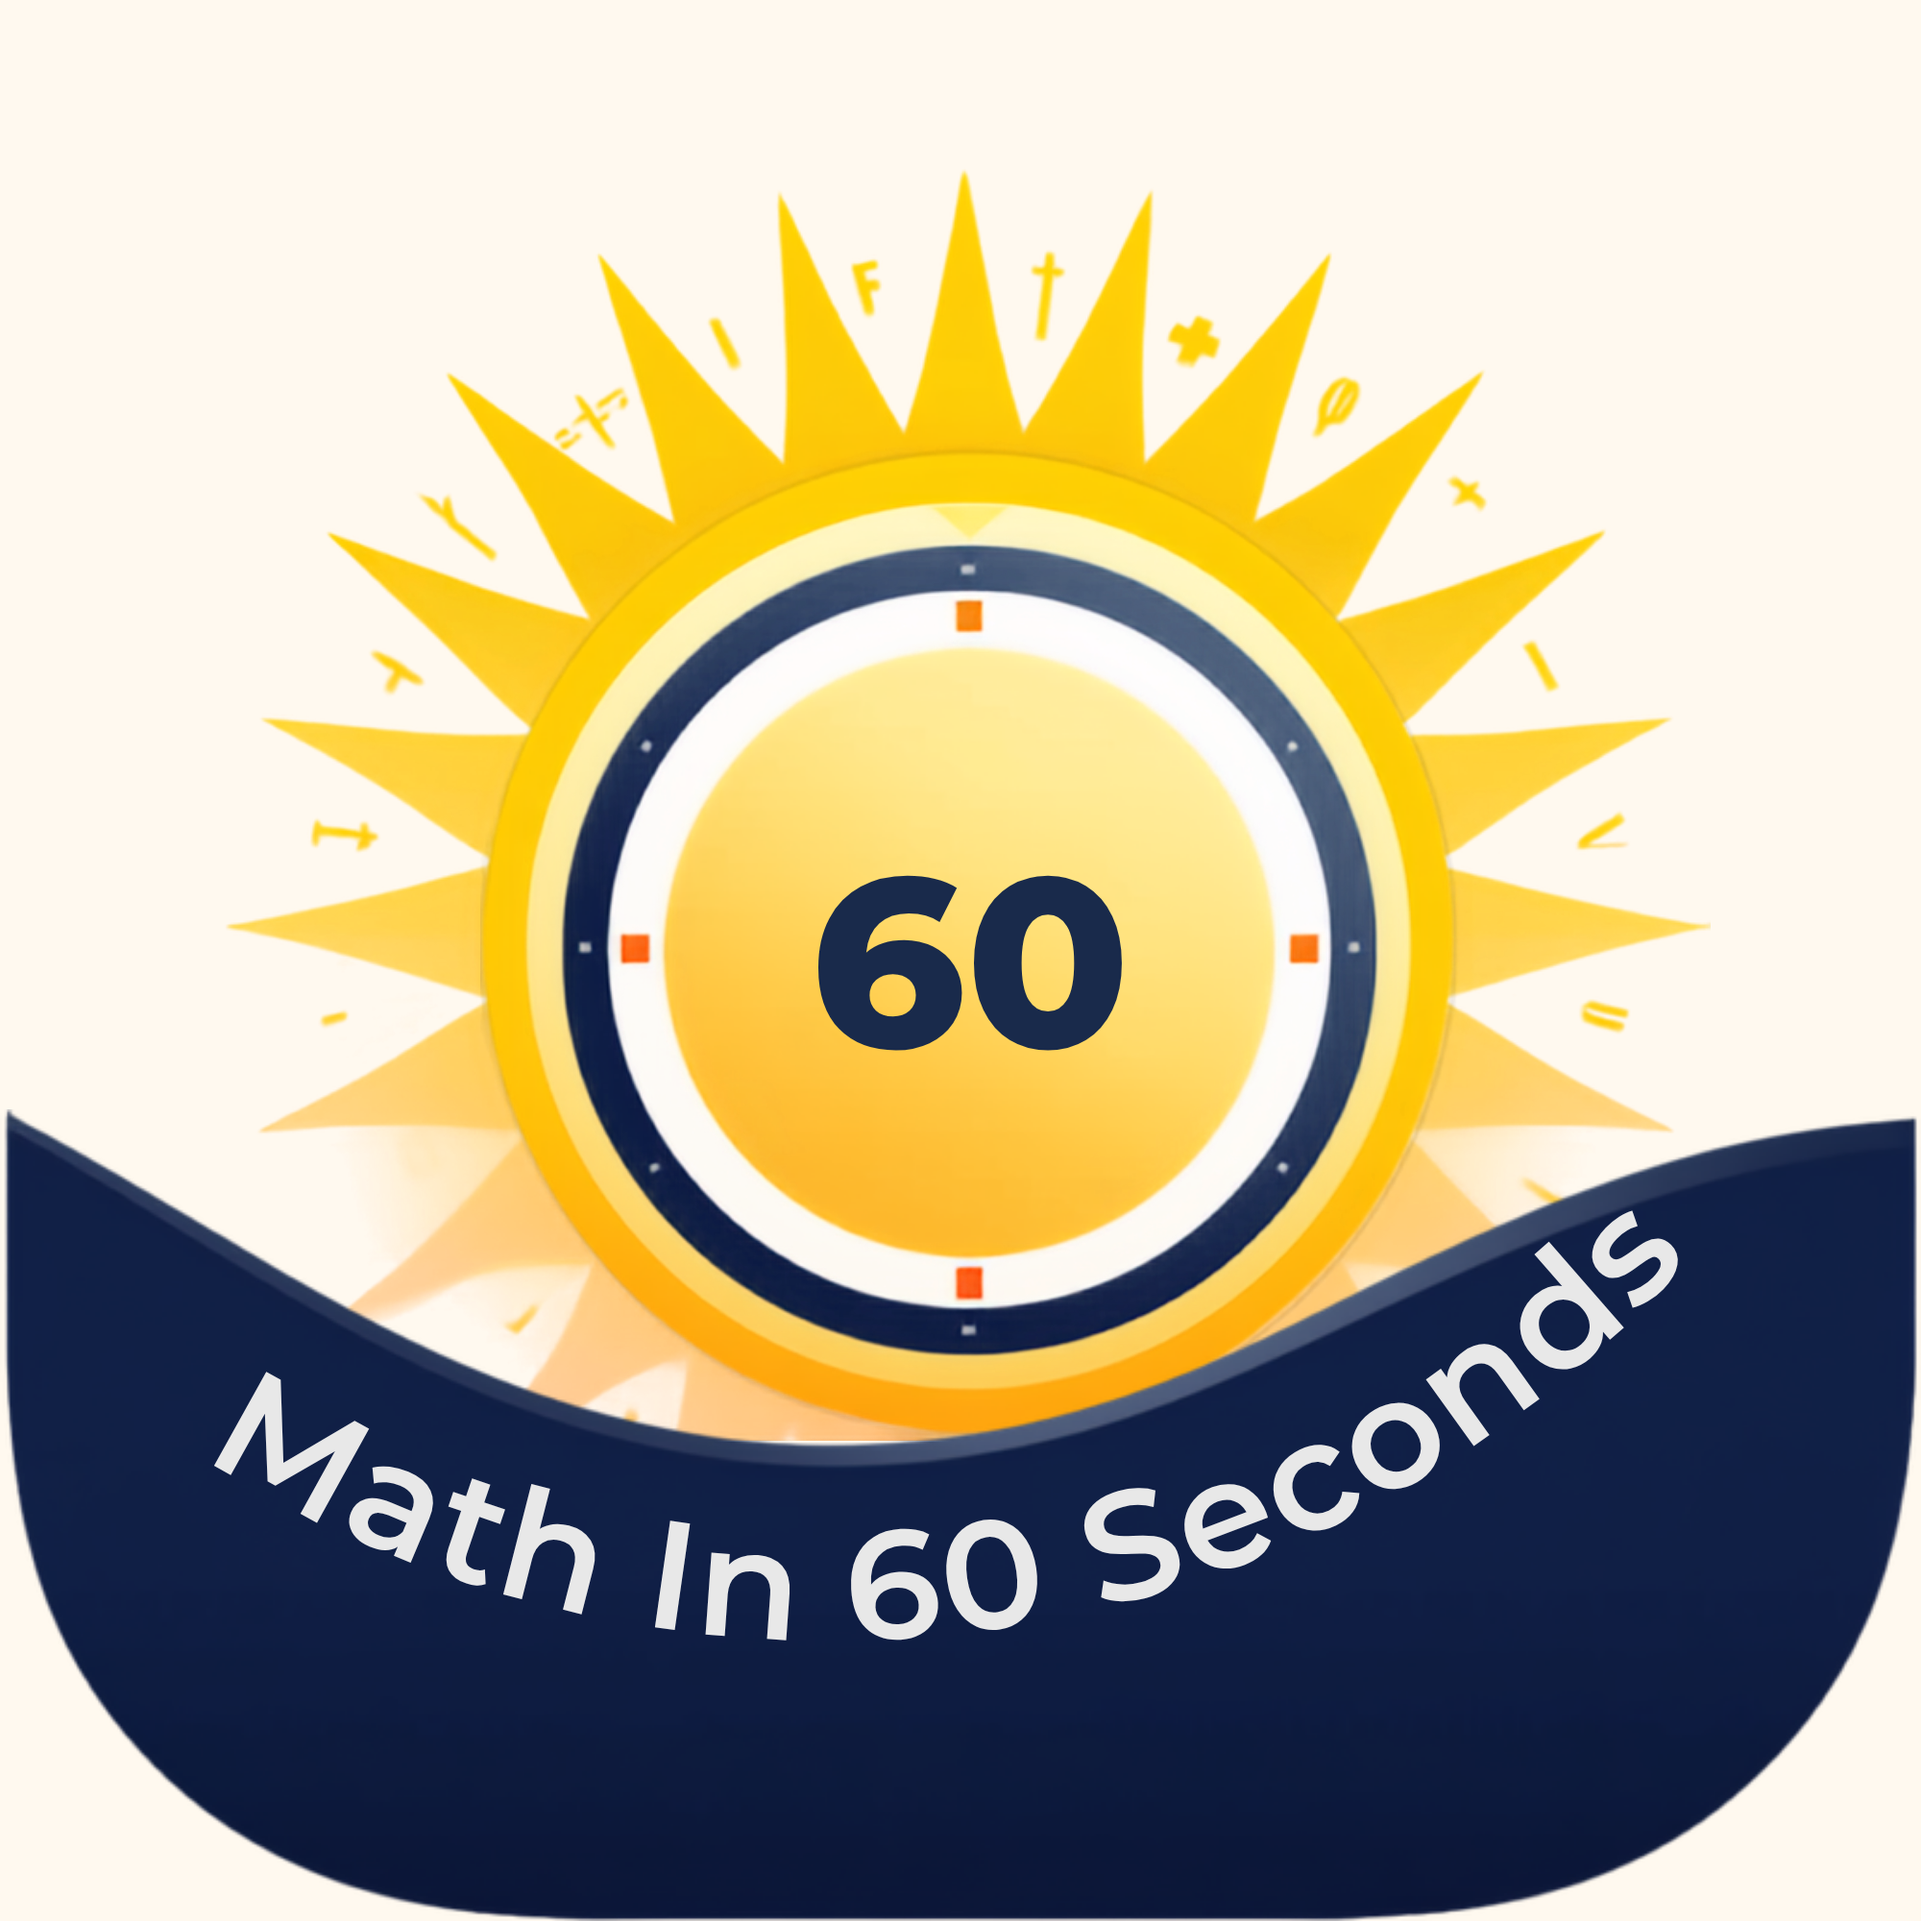
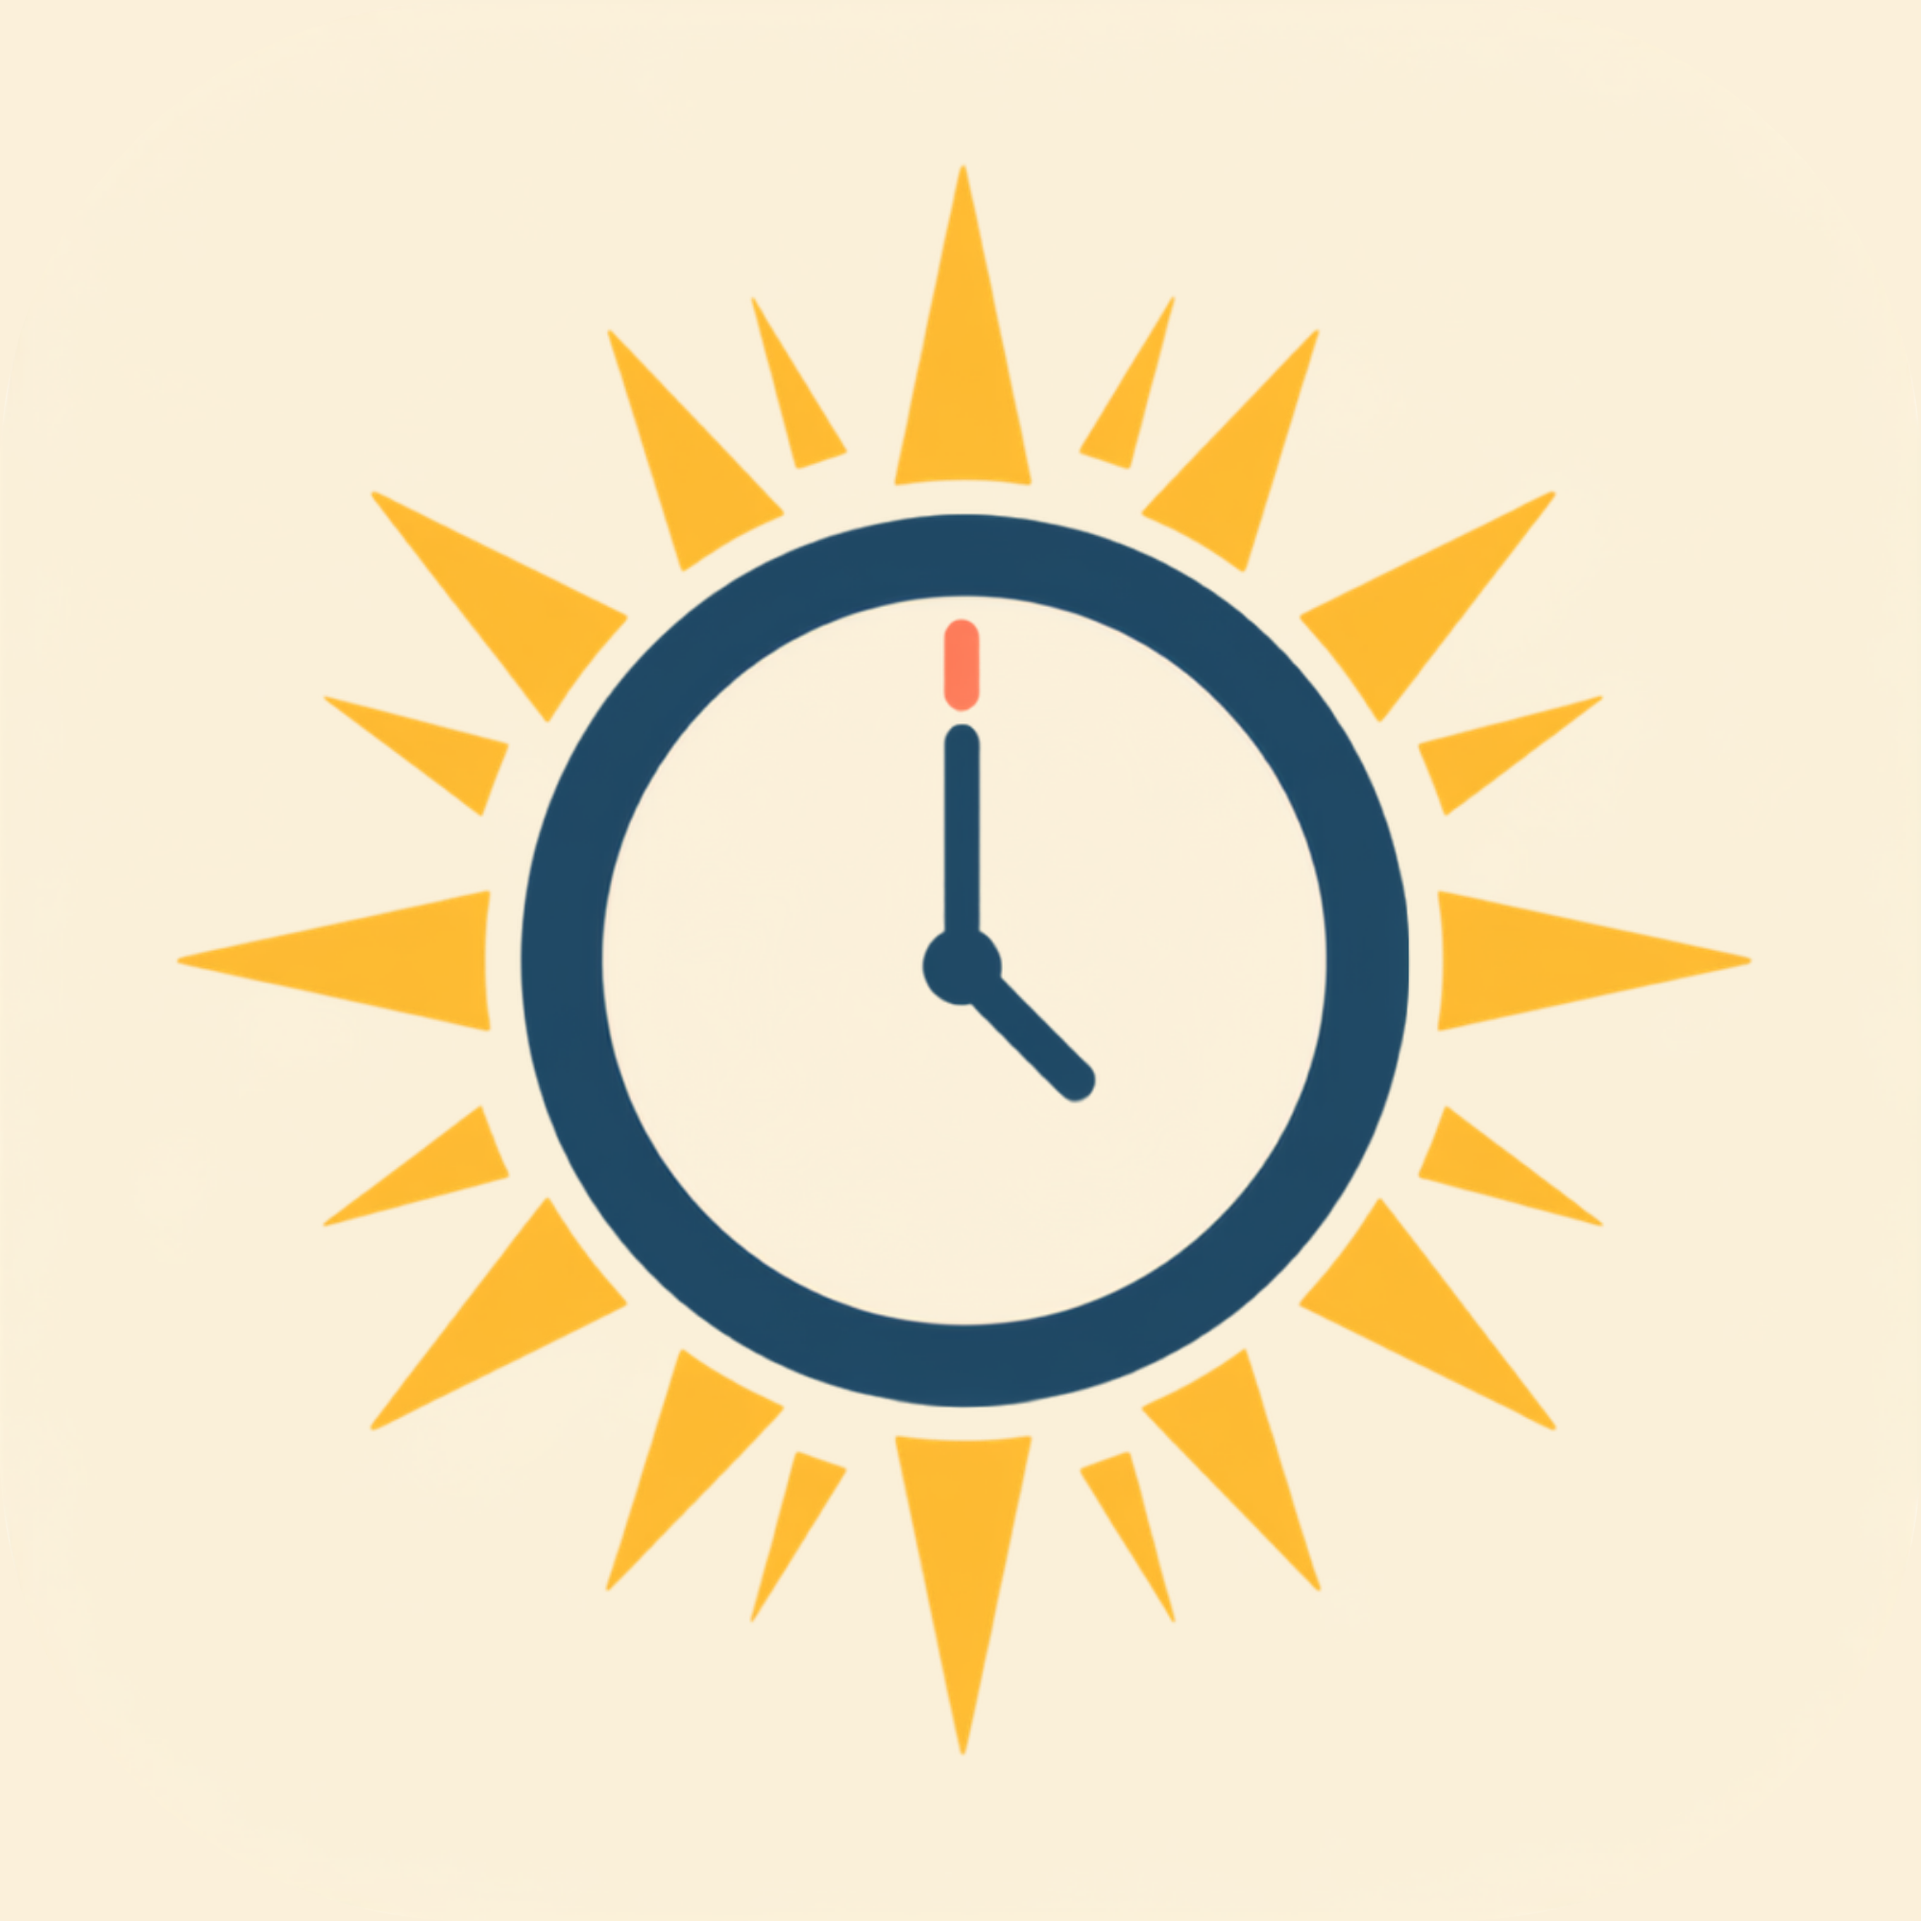
Rebrand app from "Math In 60 Seconds" to "Sunlit Math"
Updates the display name, slug, and npm package name, plus the README
and privacy policy page. Also swaps in a new sun/clock app icon (a
clean, text-free mark) generated via the Canva integration, replacing
the old cluttered logo-in-icon design, with a matching transparent-
corner variant for Android's adaptive icon.

Deliberately leaves the iOS bundle identifier, Android package name,
IAP SKU, and Xcode project/scheme names untouched -- those are tied to
the existing App Store Connect / Play Console app records and the
already-configured in-app purchase, so renaming them is a separate,
more consequential change for later.

diff --git a/docs/privacy-policy.html b/docs/privacy-policy.html
@@ -3,7 +3,7 @@
 <head>
 <meta charset="utf-8">
 <meta name="viewport" content="width=device-width, initial-scale=1">
-<title>Privacy Policy — Math In 60 Seconds</title>
+<title>Privacy Policy — Sunlit Math</title>
 <style>
   body { font-family: -apple-system, BlinkMacSystemFont, 'Segoe UI', Helvetica, Arial, sans-serif; max-width: 680px; margin: 0 auto; padding: 40px 20px 80px; color: #1F2933; line-height: 1.6; }
   h1 { font-size: 28px; margin-bottom: 4px; }
@@ -17,10 +17,10 @@
 </head>
 <body>
 
-<h1>Privacy Policy for Math In 60 Seconds</h1>
+<h1>Privacy Policy for Sunlit Math</h1>
 <p class="updated">Last updated: August 24, 2026</p>
 
-<p>Math In 60 Seconds ("the app") is a math practice game for kids. This page explains what information the app handles and how.</p>
+<p>Sunlit Math ("the app") is a math practice game for kids. This page explains what information the app handles and how.</p>
 
 <h2>What the app stores</h2>
 <p>When you finish a round, you can enter a name to save your score to a local top-10 leaderboard. The app stores:</p>
@@ -45,7 +45,7 @@
 </ul>
 
 <h2>Children's privacy</h2>
-<p>Math In 60 Seconds is designed for children. Because all data described above stays on the device and is never collected, transmitted, or viewed by us or anyone else, we do not knowingly collect personal information from children or anyone else. If you have questions about how this applies to your family, please contact us using the details below.</p>
+<p>Sunlit Math is designed for children. Because all data described above stays on the device and is never collected, transmitted, or viewed by us or anyone else, we do not knowingly collect personal information from children or anyone else. If you have questions about how this applies to your family, please contact us using the details below.</p>
 
 <h2>Changes to this policy</h2>
 <p>If this app starts handling data differently in the future (for example, adding an online leaderboard), this page will be updated first, with the date above reflecting the change.</p>

diff --git a/README.md b/README.md
@@ -1,4 +1,4 @@
-# Math In 60 Seconds
+# Sunlit Math
 
 A fast-paced arithmetic game for kids: you get 60 seconds and as many problems
 as you can solve. Pick addition, subtraction, multiplication, or division,
